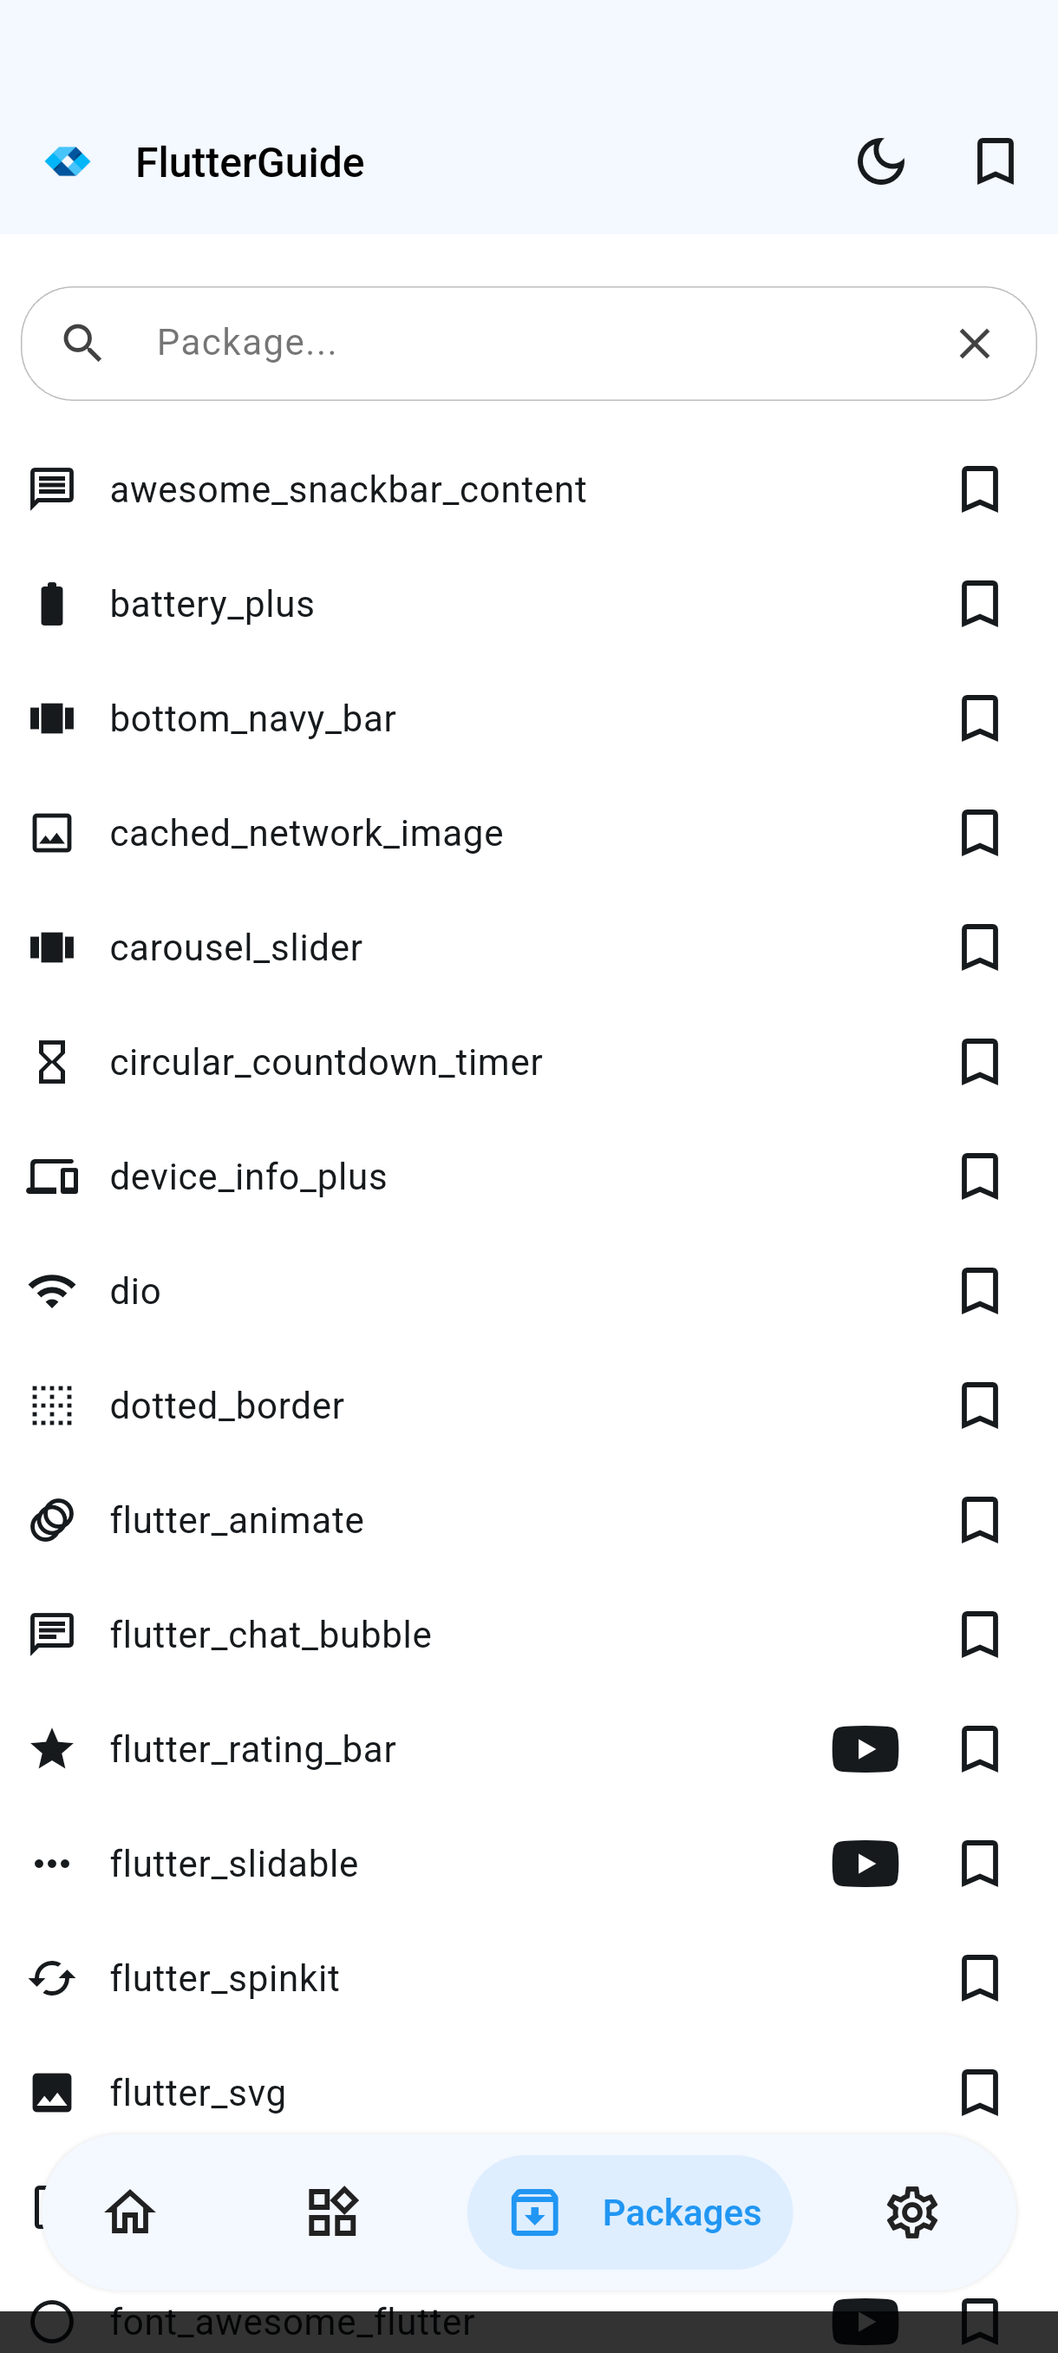
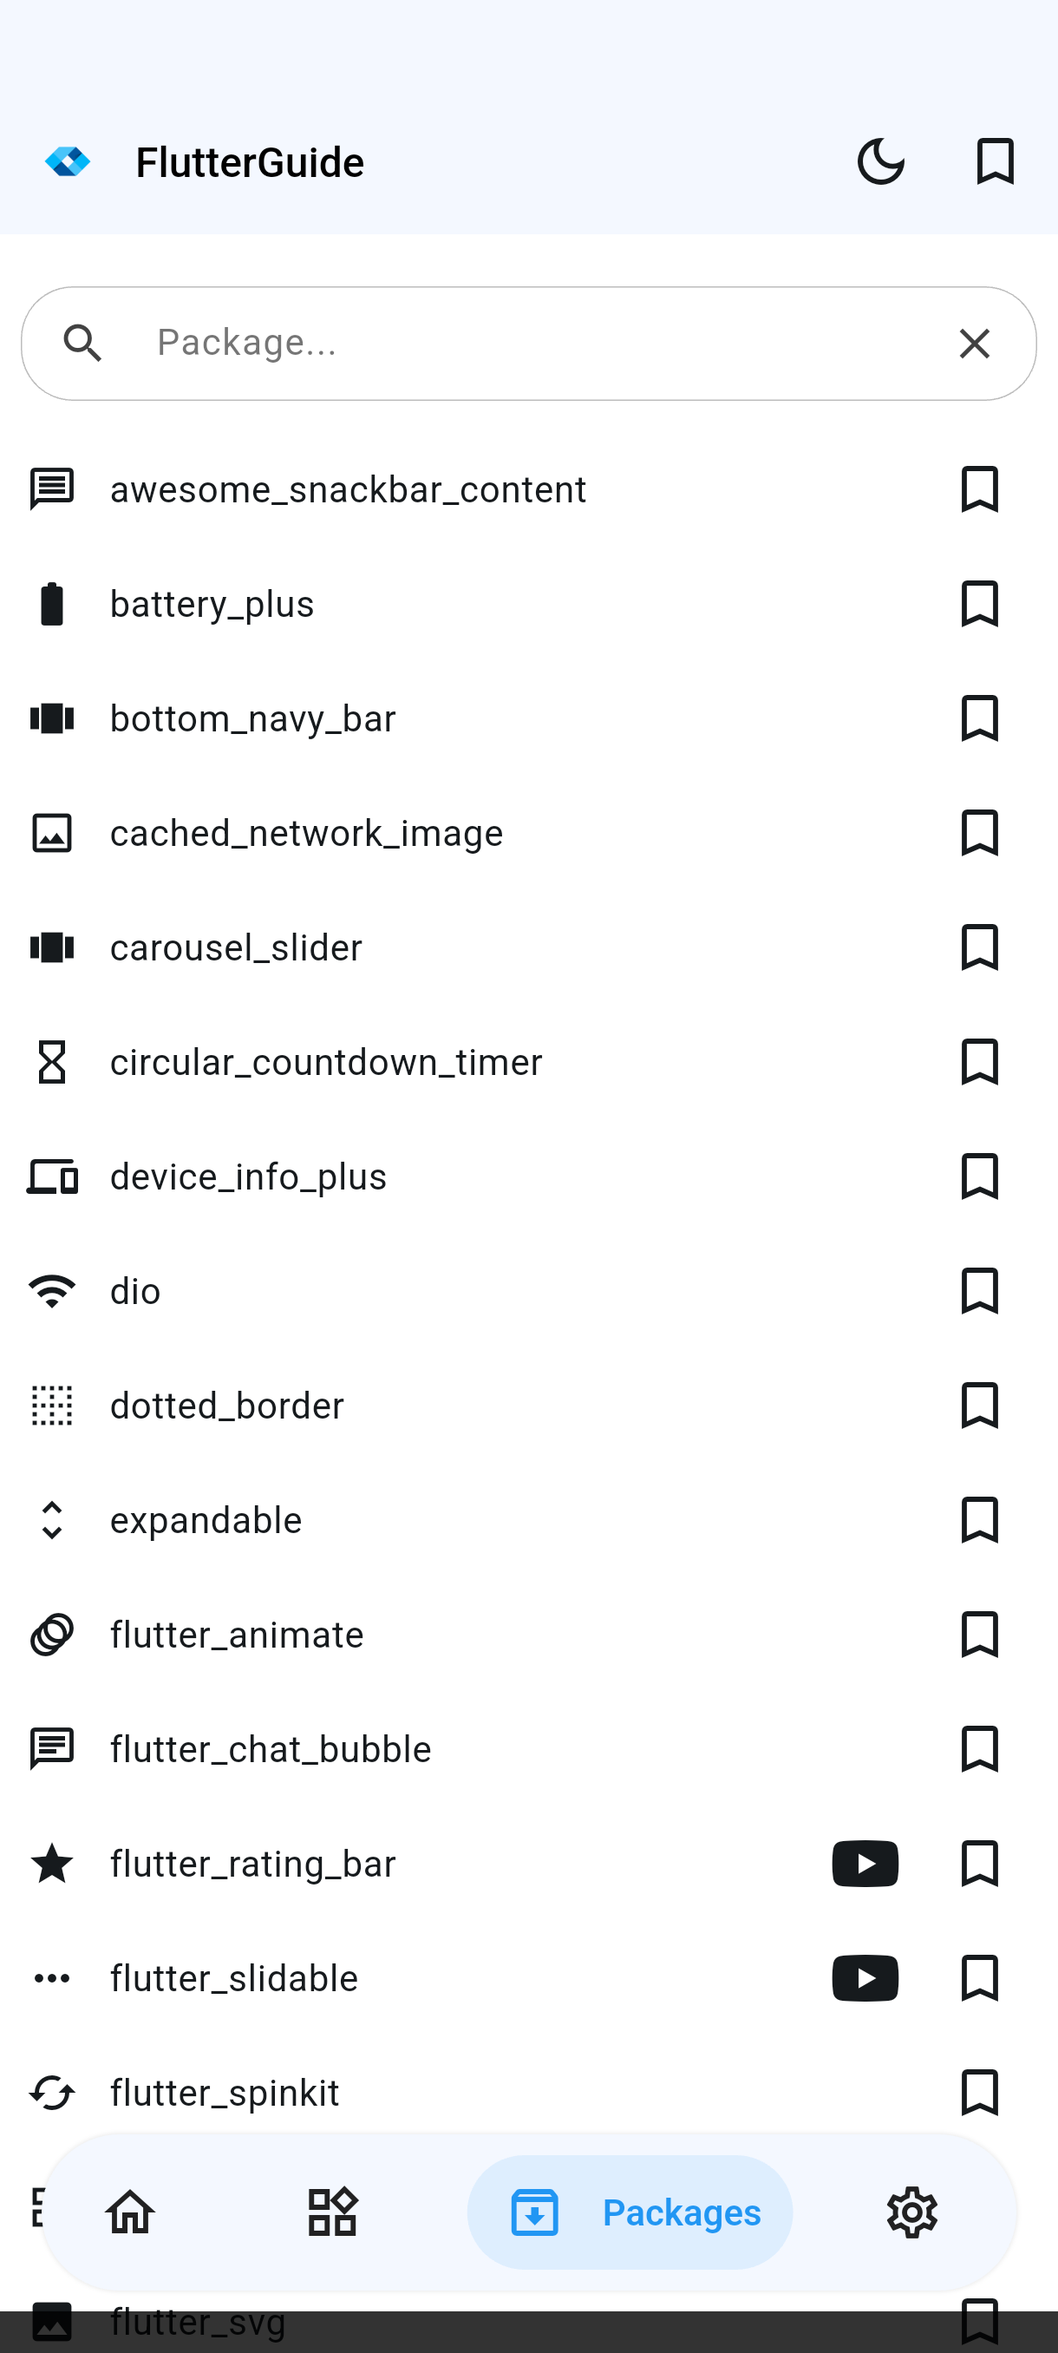
docs(readme): expand and align EN, pt-BR, and ES content
- Add CI, lint, and license badges.
- Add a catalog statistics table (131 widgets, 42 packages,
  13 functions, 10 elements, and 6 UI samples).
- Add Architecture and Testing sections.
- Add a link to `CHANGELOG.md`.
- Refresh the screenshots to match the current application.

diff --git a/README.es.md b/README.es.md
@@ -5,6 +5,12 @@
 <img src="https://img.shields.io/badge/Android-3DDC84?style=for-the-badge&logo=android&logoColor=white" alt="Android">
 </div>
 <br>
+<div align="center">
+<a href="https://github.com/dariomatias-dev/flutter_guide_app/actions/workflows/ci.yaml"><img src="https://github.com/dariomatias-dev/flutter_guide_app/actions/workflows/ci.yaml/badge.svg" alt="CI"></a>
+<img src="https://img.shields.io/badge/lints-very__good__analysis-blueviolet?style=flat" alt="very_good_analysis">
+<a href="LICENSE"><img src="https://img.shields.io/badge/license-MIT-green.svg" alt="Licencia MIT"></a>
+</div>
+<br>
 
 <p align="center">
 <a href="README.md">English</a> · <a href="README.pt-BR.md">Português (BR)</a> · <strong>Español</strong>
@@ -30,11 +36,14 @@ Una aplicación Android para explorar widgets, funciones y paquetes de Flutter/D
 - [Acerca Del Proyecto](#acerca-del-proyecto)
 - [Características](#características)
 - [Construido Con](#construido-con)
+- [Arquitectura](#arquitectura)
+- [Pruebas](#pruebas)
 - [Capturas de Pantalla](#capturas-de-pantalla)
 - [Descargar la Aplicación](#descargar-la-aplicación)
 - [Primeros Pasos](#primeros-pasos)
 - [Scripts](#scripts)
 - [Contribuir](#contribuir)
+- [Changelog](#changelog)
 - [Licencia](#licencia)
 - [Autor](#autor)
 
@@ -44,15 +53,28 @@ Una aplicación Android para explorar widgets, funciones y paquetes de Flutter/D
 
 Cada elemento (widget, función o paquete) incluye su código fuente y una vista previa interactiva renderizada dentro de la propia app, para que veas el comportamiento antes de copiarlo a tu proyecto. El catálogo también incluye pantallas de UI ya construidas y elementos de interfaz reutilizables para patrones comunes de aplicaciones.
 
+El catálogo cubre actualmente:
+
+| Categoría        | Cantidad |
+| ---------------- | -------- |
+| Widgets          | 131      |
+| Paquetes         | 42       |
+| Funciones        | 13       |
+| Elementos        | 10       |
+| Ejemplos de UI   | 6        |
+| **Total**        | **202**  |
+
 ## Características
 
 - **Catálogo de Widgets, Funciones y Paquetes**: Explora widgets Material y Cupertino, funciones esenciales de Dart y paquetes populares, cada uno con código, vista previa interactiva y enlace a la documentación oficial.
-- **Elementos y Ejemplos de UI**: Pantallas de ejemplo completas (inicio de sesión, chat, formularios y más) y elementos de interfaz reutilizables para estudiar o copiar.
+- **Elementos y Ejemplos de UI**: Pantallas de ejemplo completas (inicio de sesión, chat, cliente de correo y más) y elementos de interfaz reutilizables para estudiar o copiar.
 - **Favoritos**: Guarda cualquier widget, función o paquete para acceder rápidamente después.
 - **Búsqueda**: Filtra cada catálogo por nombre mientras escribes.
 - **Deep Linking**: Abre un componente o ejemplo específico directamente desde un enlace compartido.
 - **Múltiples Idiomas**: Interfaz completa en inglés, portugués (Brasil) y español.
 - **Selector de Tema de Código**: Elige el tema de resaltado de sintaxis usado en los ejemplos de código, con variantes clara y oscura.
+- **Tema Claro y Oscuro**: Temas en toda la app, con preferencia guardada.
+- **Accesibilidad**: Etiquetas semánticas en elementos interactivos para lectores de pantalla.
 
 ## Construido Con
 
@@ -61,6 +83,47 @@ Cada elemento (widget, función o paquete) incluye su código fuente y una vista
 - **[Riverpod](https://riverpod.dev/)**: Gestión de estado e inyección de dependencias.
 - **[go_router](https://pub.dev/packages/go_router)**: Enrutamiento declarativo y manejo de deep links.
 - **[flutter_syntax_highlighter](https://pub.dev/packages/flutter_syntax_highlighter)**: Resaltado de sintaxis para los ejemplos de código.
+- **[shared_preferences](https://pub.dev/packages/shared_preferences)**: Persistencia del tema, idioma y tema de código seleccionados.
+- **[google_mobile_ads](https://pub.dev/packages/google_mobile_ads)**: Monetización mediante anuncios.
+- **[app_links](https://pub.dev/packages/app_links)**: Manejo de deep links.
+- **[intl](https://pub.dev/packages/intl)** y las herramientas de `l10n` nativas de Flutter: localización en inglés, portugués (BR) y español.
+- **[mocktail](https://pub.dev/packages/mocktail)**: Mocks en la suite de pruebas.
+
+El catálogo dentro de la app también muestra decenas de paquetes más,
+como `dio`, `http`, `cached_network_image`, `flutter_svg`,
+`video_player`, `flutter_animate`, `photo_view` y `shimmer`; abre la
+pestaña de Paquetes en la app para ver la lista completa y ejecutable.
+
+## Arquitectura
+
+La app está organizada por feature (`lib/src/features/`), cada una con
+sus propias capas `data`, `domain` y `presentation`:
+
+- **catalog**: el catálogo de widgets/funciones/paquetes/elementos/UIs, búsqueda y favoritos.
+- **home**: la pantalla de inicio y los grupos de componentes.
+- **settings**: selección de idioma e información de la app.
+- **code_theme_selector**: el selector de tema de resaltado de sintaxis de los ejemplos de código.
+
+El estado se gestiona con Riverpod (clases `ViewModel`/`Notifier`
+expuestas mediante providers), el enrutamiento con `go_router`, y la
+persistencia mediante una capa de servicio basada en `SharedPreferences`.
+Los widgets compartidos e independientes de feature están en
+`lib/src/shared`; las responsabilidades transversales (DI, enrutamiento,
+tema) están en `lib/src/core`.
+
+## Pruebas
+
+El proyecto tiene 37 archivos de prueba que cubren repositorios, view
+models, notifiers, manejo de deep links y widgets compartidos, usando
+`mocktail` para mocks y overrides de `ProviderContainer` para el estado
+de Riverpod. El código sigue el conjunto estricto de lints
+`very_good_analysis`, verificado en CI junto con `dart format` y
+`flutter test`.
+
+```sh
+fvm flutter analyze
+fvm flutter test
+```
 
 ## Capturas de Pantalla
 
@@ -125,6 +188,10 @@ Los scripts utilitarios están en `scripts/`.
 Las contribuciones hacen que la comunidad de código abierto sea un lugar increíble para aprender y crear. Cualquier contribución que hagas será muy apreciada.
 
 Antes de abrir un pull request, consulta [CONTRIBUTING.md](CONTRIBUTING.md) (en inglés) para la configuración local, la convención de mensajes de commit (Conventional Commits) y las reglas de ramas de este proyecto.
+
+## Changelog
+
+Todos los cambios notables se documentan en [CHANGELOG.md](CHANGELOG.md) (en inglés), siguiendo el formato [Keep a Changelog](https://keepachangelog.com).
 
 ## Licencia
 

diff --git a/README.pt-BR.md b/README.pt-BR.md
@@ -5,6 +5,12 @@
 <img src="https://img.shields.io/badge/Android-3DDC84?style=for-the-badge&logo=android&logoColor=white" alt="Android">
 </div>
 <br>
+<div align="center">
+<a href="https://github.com/dariomatias-dev/flutter_guide_app/actions/workflows/ci.yaml"><img src="https://github.com/dariomatias-dev/flutter_guide_app/actions/workflows/ci.yaml/badge.svg" alt="CI"></a>
+<img src="https://img.shields.io/badge/lints-very__good__analysis-blueviolet?style=flat" alt="very_good_analysis">
+<a href="LICENSE"><img src="https://img.shields.io/badge/license-MIT-green.svg" alt="Licença MIT"></a>
+</div>
+<br>
 
 <p align="center">
 <a href="README.md">English</a> · <strong>Português (BR)</strong> · <a href="README.es.md">Español</a>
@@ -30,11 +36,14 @@ Um aplicativo Android para explorar widgets, funções e pacotes do Flutter/Dart
 - [Sobre O Projeto](#sobre-o-projeto)
 - [Funcionalidades](#funcionalidades)
 - [Construído Com](#construído-com)
+- [Arquitetura](#arquitetura)
+- [Testes](#testes)
 - [Capturas de Tela](#capturas-de-tela)
 - [Baixar o App](#baixar-o-app)
 - [Começando](#começando)
 - [Scripts](#scripts)
 - [Contribuindo](#contribuindo)
+- [Changelog](#changelog)
 - [Licença](#licença)
 - [Autor](#autor)
 
@@ -44,15 +53,28 @@ Um aplicativo Android para explorar widgets, funções e pacotes do Flutter/Dart
 
 Cada item (widget, função ou pacote) vem com seu código-fonte e uma prévia interativa renderizada dentro do próprio app, para você ver o comportamento antes de copiar para o seu projeto. O catálogo também inclui telas de UI prontas e elementos de interface reutilizáveis para padrões comuns de app.
 
+O catálogo cobre atualmente:
+
+| Categoria      | Quantidade |
+| -------------- | ---------- |
+| Widgets        | 131        |
+| Pacotes        | 42         |
+| Funções        | 13         |
+| Elementos      | 10         |
+| Exemplos de UI | 6          |
+| **Total**      | **202**    |
+
 ## Funcionalidades
 
 - **Catálogo de Widgets, Funções e Pacotes**: Navegue por widgets Material e Cupertino, funções essenciais do Dart e pacotes populares, cada um com código, prévia interativa e link para a documentação oficial.
-- **Elementos e Exemplos de UI**: Telas de exemplo completas (login, chat, formulários e mais) e elementos de interface reutilizáveis para estudar ou copiar.
+- **Elementos e Exemplos de UI**: Telas de exemplo completas (login, chat, cliente de email e mais) e elementos de interface reutilizáveis para estudar ou copiar.
 - **Favoritos**: Salve qualquer widget, função ou pacote para acesso rápido depois.
 - **Busca**: Filtre cada catálogo pelo nome enquanto digita.
 - **Deep Linking**: Abra um componente ou exemplo específico direto de um link compartilhado.
 - **Múltiplos Idiomas**: Interface completa em inglês, português (Brasil) e espanhol.
 - **Seletor de Tema de Código**: Escolha o tema de destaque de sintaxe usado nos exemplos de código, com variantes claro e escuro.
+- **Tema Claro e Escuro**: Temas em todo o app, com preferência salva.
+- **Acessibilidade**: Labels semânticos em elementos interativos para leitores de tela.
 
 ## Construído Com
 
@@ -61,6 +83,47 @@ Cada item (widget, função ou pacote) vem com seu código-fonte e uma prévia i
 - **[Riverpod](https://riverpod.dev/)**: Gerenciamento de estado e injeção de dependência.
 - **[go_router](https://pub.dev/packages/go_router)**: Roteamento declarativo e tratamento de deep links.
 - **[flutter_syntax_highlighter](https://pub.dev/packages/flutter_syntax_highlighter)**: Destaque de sintaxe para os exemplos de código.
+- **[shared_preferences](https://pub.dev/packages/shared_preferences)**: Persistência de tema, idioma e tema de código selecionados.
+- **[google_mobile_ads](https://pub.dev/packages/google_mobile_ads)**: Monetização via anúncios.
+- **[app_links](https://pub.dev/packages/app_links)**: Tratamento de deep links.
+- **[intl](https://pub.dev/packages/intl)** e o suporte nativo de `l10n` do Flutter: localização em inglês, português (BR) e espanhol.
+- **[mocktail](https://pub.dev/packages/mocktail)**: Mocks na suíte de testes.
+
+O catálogo dentro do app também demonstra dezenas de outros pacotes, como
+`dio`, `http`, `cached_network_image`, `flutter_svg`, `video_player`,
+`flutter_animate`, `photo_view` e `shimmer`; abra a aba de Pacotes no app
+para ver a lista completa e executável.
+
+## Arquitetura
+
+O app é organizado por feature (`lib/src/features/`), cada uma com suas
+próprias camadas `data`, `domain` e `presentation`:
+
+- **catalog**: o catálogo de widgets/funções/pacotes/elementos/UIs, busca e favoritos.
+- **home**: a tela inicial e os grupos de componentes.
+- **settings**: seleção de idioma e informações do app.
+- **code_theme_selector**: o seletor de tema de destaque de sintaxe dos exemplos de código.
+
+O estado é gerenciado com Riverpod (classes `ViewModel`/`Notifier`
+expostas via providers), o roteamento com `go_router`, e a persistência
+por uma camada de serviço baseada em `SharedPreferences`. Widgets
+compartilhados e independentes de feature ficam em `lib/src/shared`;
+responsabilidades transversais (DI, roteamento, tema) ficam em
+`lib/src/core`.
+
+## Testes
+
+O projeto tem 37 arquivos de teste cobrindo repositórios, view models,
+notifiers, tratamento de deep link e widgets compartilhados, usando
+`mocktail` para mocks e overrides de `ProviderContainer` para estado do
+Riverpod. O código segue o conjunto rigoroso de lints
+`very_good_analysis`, verificado no CI junto com `dart format` e
+`flutter test`.
+
+```sh
+fvm flutter analyze
+fvm flutter test
+```
 
 ## Capturas de Tela
 
@@ -125,6 +188,10 @@ Scripts utilitários ficam em `scripts/`.
 Contribuições tornam a comunidade open-source um lugar incrível para aprender e criar. Qualquer contribuição que você fizer será muito bem-vinda.
 
 Antes de abrir um pull request, veja o [CONTRIBUTING.md](CONTRIBUTING.md) (em inglês) para a configuração local, a convenção de mensagens de commit (Conventional Commits) e as regras de branch deste projeto.
+
+## Changelog
+
+Todas as mudanças notáveis são documentadas em [CHANGELOG.md](CHANGELOG.md) (em inglês), seguindo o formato [Keep a Changelog](https://keepachangelog.com).
 
 ## Licença
 

diff --git a/README.md b/README.md
@@ -5,6 +5,12 @@
 <img src="https://img.shields.io/badge/Android-3DDC84?style=for-the-badge&logo=android&logoColor=white" alt="Android">
 </div>
 <br>
+<div align="center">
+<a href="https://github.com/dariomatias-dev/flutter_guide_app/actions/workflows/ci.yaml"><img src="https://github.com/dariomatias-dev/flutter_guide_app/actions/workflows/ci.yaml/badge.svg" alt="CI"></a>
+<img src="https://img.shields.io/badge/lints-very__good__analysis-blueviolet?style=flat" alt="very_good_analysis">
+<a href="LICENSE"><img src="https://img.shields.io/badge/license-MIT-green.svg" alt="MIT License"></a>
+</div>
+<br>
 
 <p align="center">
 <strong>English</strong> · <a href="README.pt-BR.md">Português (BR)</a> · <a href="README.es.md">Español</a>
@@ -30,11 +36,14 @@ An Android app for browsing Flutter/Dart widgets, functions, and packages, each 
 - [About The Project](#about-the-project)
 - [Features](#features)
 - [Built With](#built-with)
+- [Architecture](#architecture)
+- [Testing](#testing)
 - [Screenshots](#screenshots)
 - [Download the App](#download-the-app)
 - [Getting Started](#getting-started)
 - [Scripts](#scripts)
 - [Contributing](#contributing)
+- [Changelog](#changelog)
 - [License](#license)
 - [Author](#author)
 
@@ -44,15 +53,28 @@ An Android app for browsing Flutter/Dart widgets, functions, and packages, each 
 
 Each entry (widget, function, or package) ships with its source code and a live, interactive preview rendered right in the app, so you can see the behavior before copying it into your own project. The catalog also includes ready-made UI screens and reusable interface elements for common app patterns.
 
+The catalog currently covers:
+
+| Category  | Count |
+| --------- | ----- |
+| Widgets   | 131   |
+| Packages  | 42    |
+| Functions | 13    |
+| Elements  | 10    |
+| UI samples | 6    |
+| **Total** | **202** |
+
 ## Features
 
 - **Widget, Function & Package Catalog**: Browse Material and Cupertino widgets, core Dart functions, and popular packages, each with code, an interactive preview, and a link to the official docs.
-- **Elements & UI Samples**: Full sample screens (login, chat, forms, and more) and reusable interface elements you can study or copy.
+- **Elements & UI Samples**: Full sample screens (login, chat, email client, and more) and reusable interface elements you can study or copy.
 - **Favorites**: Save any widget, function, or package for quick access later.
 - **Search**: Filter each catalog by name as you type.
 - **Deep Linking**: Open a specific component or sample directly from a shared link.
 - **Multiple Languages**: Full app UI in English, Portuguese (Brazil), and Spanish.
 - **Code Theme Selector**: Pick the syntax-highlighting theme used for code samples, with light and dark variants.
+- **Light & Dark Theme**: App-wide theming with a persisted preference.
+- **Accessibility**: Semantic labels on interactive elements for screen readers.
 
 ## Built With
 
@@ -61,6 +83,45 @@ Each entry (widget, function, or package) ships with its source code and a live,
 - **[Riverpod](https://riverpod.dev/)**: State management and dependency injection.
 - **[go_router](https://pub.dev/packages/go_router)**: Declarative routing and deep link handling.
 - **[flutter_syntax_highlighter](https://pub.dev/packages/flutter_syntax_highlighter)**: Syntax highlighting for the code samples.
+- **[shared_preferences](https://pub.dev/packages/shared_preferences)**: Persisting theme, language, and code theme selections.
+- **[google_mobile_ads](https://pub.dev/packages/google_mobile_ads)**: Ad monetization.
+- **[app_links](https://pub.dev/packages/app_links)**: Deep link handling.
+- **[intl](https://pub.dev/packages/intl)** and Flutter's built-in `l10n` tooling: English, Portuguese (BR), and Spanish localization.
+- **[mocktail](https://pub.dev/packages/mocktail)**: Mocking in the test suite.
+
+The in-app catalog also demonstrates dozens more packages, such as `dio`,
+`http`, `cached_network_image`, `flutter_svg`, `video_player`,
+`flutter_animate`, `photo_view`, and `shimmer`; open the Packages tab in
+the app for the full, runnable list.
+
+## Architecture
+
+The app is organized by feature (`lib/src/features/`), each with its own
+`data`, `domain`, and `presentation` layers:
+
+- **catalog**: the widget/function/package/element/UI catalog, search, and favorites.
+- **home**: the landing screen and component groups.
+- **settings**: language selection and app info.
+- **code_theme_selector**: the code sample syntax-highlighting theme picker.
+
+State is managed with Riverpod (`ViewModel`/`Notifier` classes exposed
+through providers), routing with `go_router`, and persistence through a
+`SharedPreferences`-backed service layer. Shared, feature-agnostic widgets
+live under `lib/src/shared`; cross-cutting concerns (DI, routing, theming)
+live under `lib/src/core`.
+
+## Testing
+
+The project has 37 test files covering repositories, view models,
+notifiers, deep link handling, and shared widgets, using `mocktail` for
+mocking and `ProviderContainer` overrides for Riverpod state. Code is
+linted against the strict `very_good_analysis` rule set, enforced in CI
+alongside `dart format` and `flutter test`.
+
+```sh
+fvm flutter analyze
+fvm flutter test
+```
 
 ## Screenshots
 
@@ -125,6 +186,10 @@ Utility scripts live under `scripts/`.
 Contributions make the open-source community an amazing place to learn and create. Any contributions you make are greatly appreciated.
 
 Before opening a pull request, see [CONTRIBUTING.md](CONTRIBUTING.md) for the local setup, commit message convention (Conventional Commits), and branching rules this project follows.
+
+## Changelog
+
+All notable changes are documented in [CHANGELOG.md](CHANGELOG.md), following the [Keep a Changelog](https://keepachangelog.com) format.
 
 ## License
 
